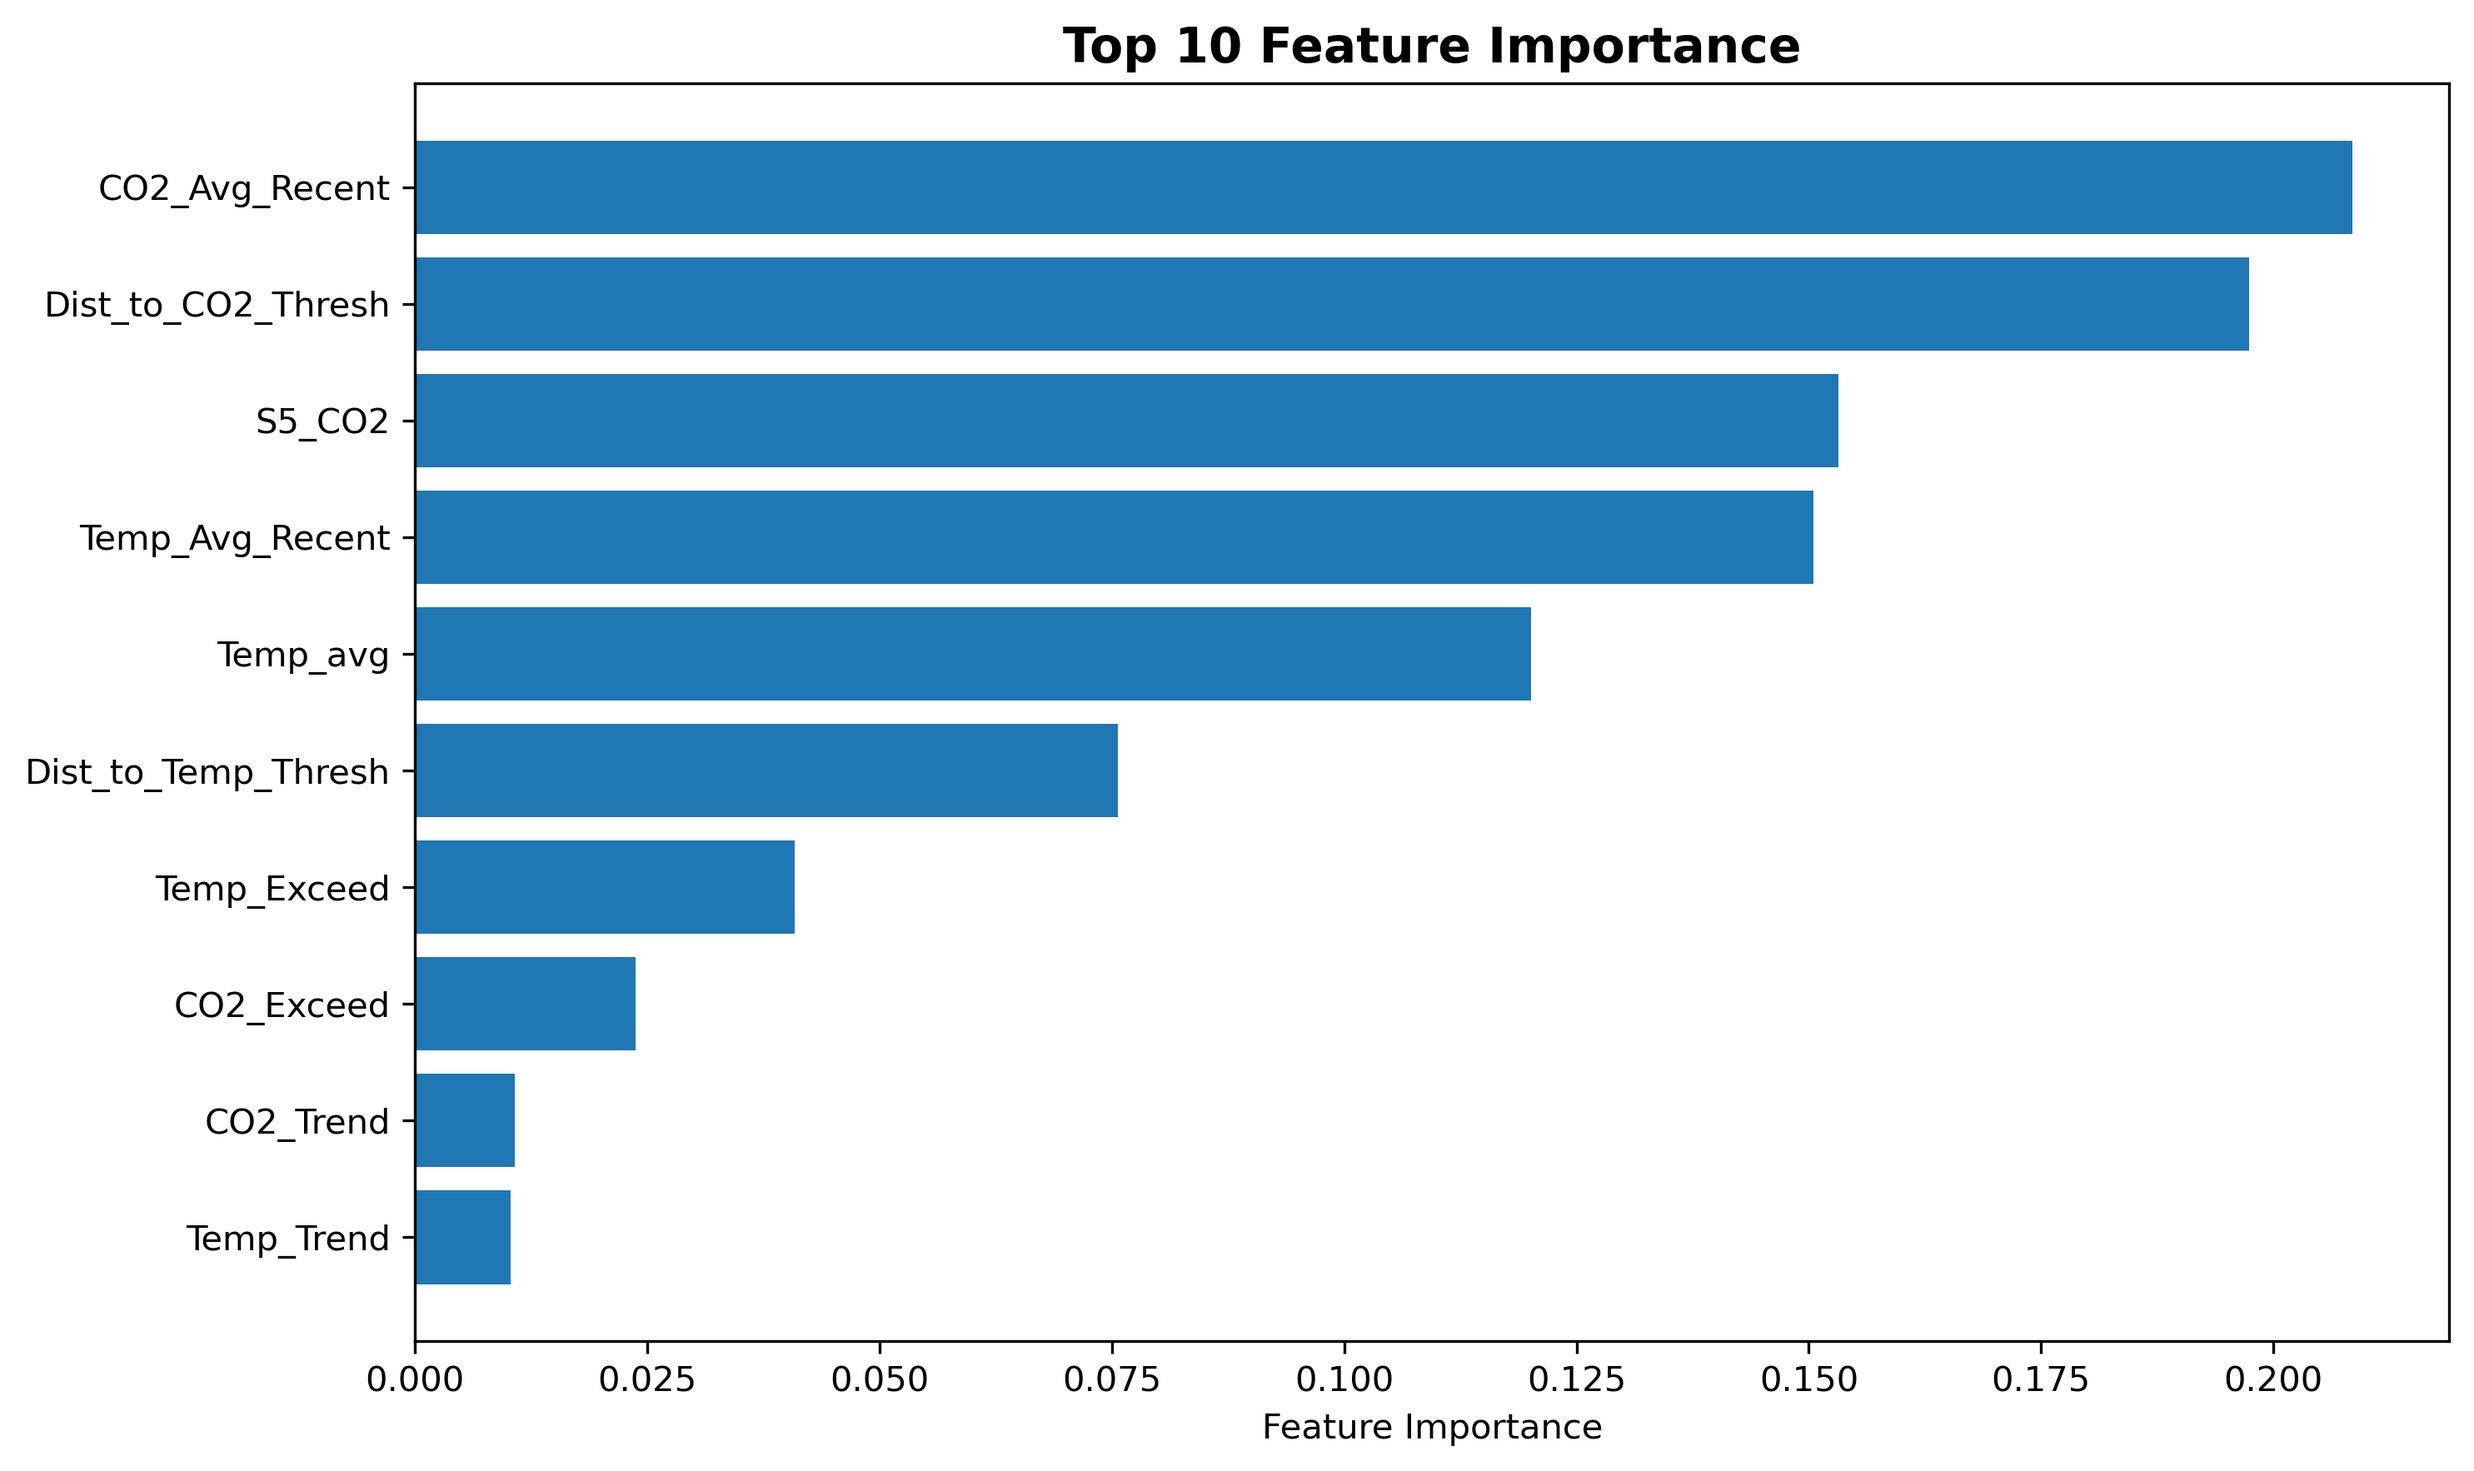
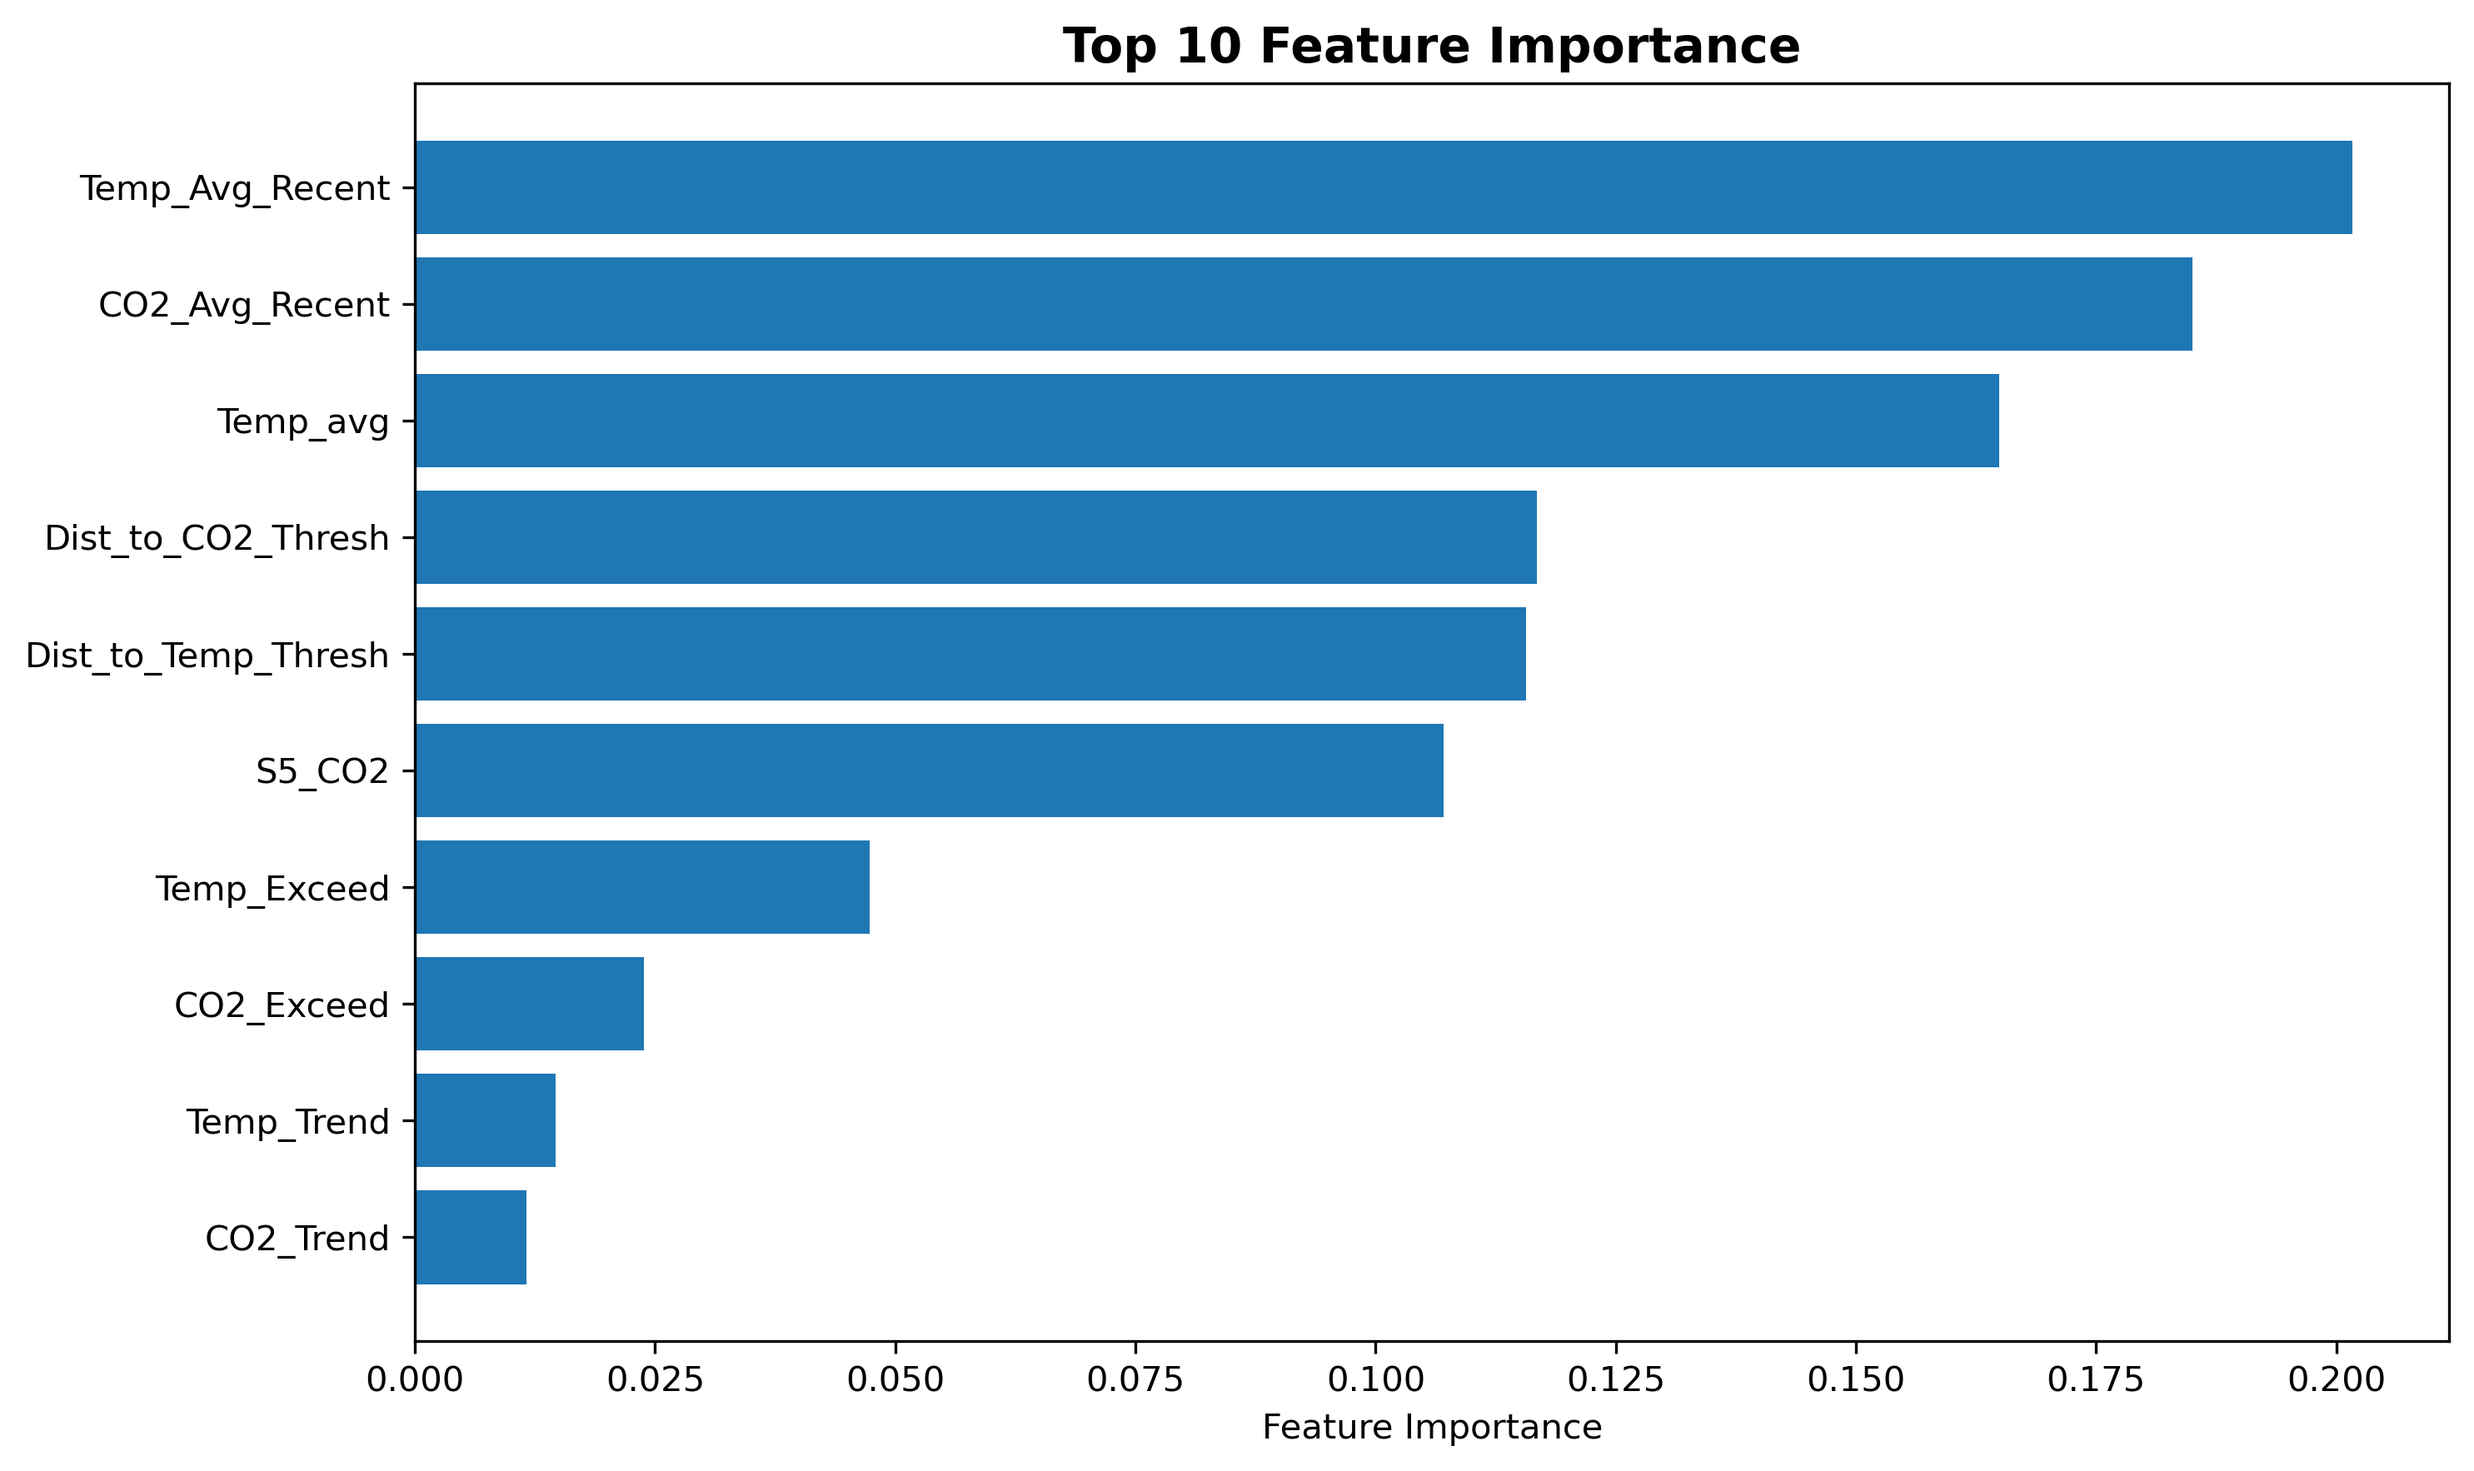
Change High state definition from OR to AND condition
- Changed High state definition: both temperature > 26°C AND CO2 > 1000ppm must be exceeded
- More strict criteria to detect only truly dangerous situations
- Updated performance metrics:
  - Overall accuracy: 96.84%
  - High detection F1-Score: 95.86%
  - Normal→High transition F1-Score: 66.67% (target: 50%+ achieved)
- Updated feature importance rankings (Temp_Avg_Recent now most important)
- Removed debug print statement
- Updated README with AND condition details and new performance metrics

diff --git a/threshold_detection_model.py b/threshold_detection_model.py
@@ -30,6 +30,10 @@ class ThresholdDetectionModel:
             온도 기준선
         co2_threshold : float
             CO2 기준선
+        
+        Note:
+        -----
+        High 상태 정의: 온도 > temp_threshold AND CO2 > co2_threshold (둘 다 넘어야 High)
         """
         self.temp_threshold = temp_threshold
         self.co2_threshold = co2_threshold
@@ -101,10 +105,10 @@ class ThresholdDetectionModel:
             
             features_list.append(features)
             
-            # 타겟: 다음 시점이 High 상태인지
+            # 타겟: 다음 시점이 High 상태인지 (AND 조건: 둘 다 넘어야 High)
             next_temp = df.iloc[i+1]['Temp_avg']
             next_co2 = df.iloc[i+1]['S5_CO2']
-            is_high = 1 if (next_temp > self.temp_threshold or next_co2 > self.co2_threshold) else 0
+            is_high = 1 if (next_temp > self.temp_threshold and next_co2 > self.co2_threshold) else 0
             targets.append(is_high)
         
         return np.array(features_list), np.array(targets)
@@ -126,7 +130,6 @@ class ThresholdDetectionModel:
         """
         print("🔄 특징 준비 중...")
         X, y = self.prepare_features(df, window_size)
-        
         print(f"✅ 특징 준비 완료: {X.shape[0]}개 샘플, {X.shape[1]}개 특징")
         print(f"📊 타겟 분포: High={np.sum(y)}개 ({np.sum(y)/len(y)*100:.2f}%), Normal={len(y)-np.sum(y)}개")
         
@@ -313,6 +316,7 @@ def main():
     print("🚀 기준선 초과 탐지 모델 실행 시작")
     print("=" * 70)
     print("💡 목적: 다음 시점에 기준선을 넘을지 미리 예측")
+    print("💡 High 상태 정의: 온도 > 26°C AND CO2 > 1000ppm (둘 다 넘어야 High)")
     print("=" * 70)
     
     # 데이터 로드

diff --git a/README.md b/README.md
@@ -223,28 +223,33 @@ co2_noise_level = 30.0          # CO2 측정 오차
 - **목적**: 기준선 초과를 미리 탐지하여 사전 조치 가능
 - **알고리즘**: Random Forest (특징 기반 예측)
 - **특징**: 온도, CO2, 변화율, 추세, 기준선까지의 거리 등 13개 특징 활용
+- **High 상태 정의**: 온도 > 26°C **AND** CO2 > 1000ppm (둘 다 넘어야 High)
 
 ### 성능 결과
 
+#### High 상태 정의
+- **AND 조건**: 온도 > 26°C **그리고** CO2 > 1000ppm (둘 다 넘어야 High)
+- 더 엄격한 기준으로 실제로 위험한 상황만 탐지
+
 #### 전체 성능
-- **정확도**: **97.63%** ✅
-- **High 상태 탐지 F1-Score**: **98.17%** ✅
-- **Precision**: 98.20% (예측한 High 중 실제 High 비율)
-- **Recall**: 98.14% (실제 High 중 예측한 비율)
+- **정확도**: **96.84%** ✅
+- **High 상태 탐지 F1-Score**: **95.86%** ✅
+- **Precision**: 95.12% (예측한 High 중 실제 High 비율)
+- **Recall**: 96.61% (실제 High 중 예측한 비율)
 
 #### 핵심 지표: Normal → High 전이 예측
-- **Normal → High 전이 F1-Score**: **78.65%** ✅ (목표: 50% 이상 달성!)
-- **Precision**: 92.92%
-- **Recall**: 68.18%
+- **Normal → High 전이 F1-Score**: **66.67%** ✅ (목표: 50% 이상 달성!)
+- **Precision**: 100.00% (예측이 매우 정확함)
+- **Recall**: 50.00%
 - **Normal 상태 사례 수**: 3,580개
-- **실제 High로 전이**: 308개
+- **실제 High로 전이**: 18개 (AND 조건이 엄격하여 적음)
 
-### 주요 특징 중요도 (상위 5개)
-1. **CO2_Avg_Recent** (최근 평균 CO2): 20.85%
-2. **Dist_to_CO2_Thresh** (CO2 기준선까지 거리): 19.74%
-3. **S5_CO2** (현재 CO2 값): 15.32%
-4. **Temp_Avg_Recent** (최근 평균 온도): 15.05%
-5. **Temp_avg** (현재 온도): 12.01%
+### 주요 특징 중요도 (상위 5개 - AND 조건 기준)
+1. **Temp_Avg_Recent** (최근 평균 온도): 20.17%
+2. **CO2_Avg_Recent** (최근 평균 CO2): 18.50%
+3. **Temp_avg** (현재 온도): 16.49%
+4. **Dist_to_CO2_Thresh** (CO2 기준선까지 거리): 11.68%
+5. **Dist_to_Temp_Thresh** (온도 기준선까지 거리): 11.56%
 
 ### 사용법
 ```python
@@ -266,7 +271,8 @@ print(f"Normal→High 전이 F1-Score: {eval_results['normal_to_high_f1']:.4f}")
 ### 모델 개선 과정
 1. **초기 시도**: 마르코프 체인 모델 (전체 정확도 86.67%지만 Normal→High F1: 0%)
 2. **문제점 파악**: Normal 상태 예측에만 의존, 실제 목적(High 상태 탐지) 달성 실패
-3. **최종 모델**: Random Forest로 변경, 특징 기반 예측으로 Normal→High F1: 78.65% 달성
+3. **Random Forest 적용**: 특징 기반 예측으로 성능 향상
+4. **최종 모델**: AND 조건 적용 (온도와 CO2 둘 다 넘어야 High) - Normal→High F1: 66.67% 달성
 
 ## 📝 주의사항
 
